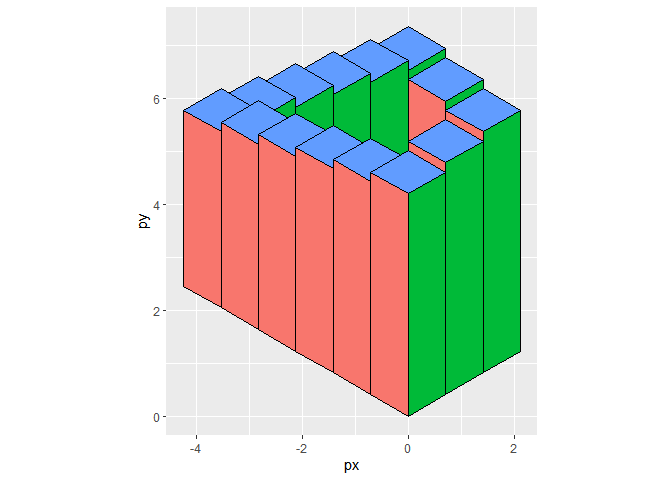
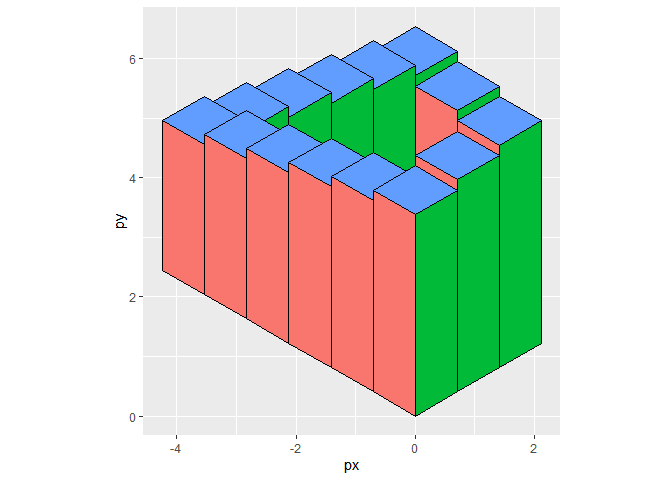
Update Penrose stairs in readme

diff --git a/README.md b/README.md
@@ -460,7 +460,7 @@ exact, I used trial and error to get the correct spacing for the stairs
 to line up!
 
 ``` r
-d <- seq(3, by=0.214, l=14)
+d <- seq(2, by=0.214, l=14)
 
 m <-
     matrix(
